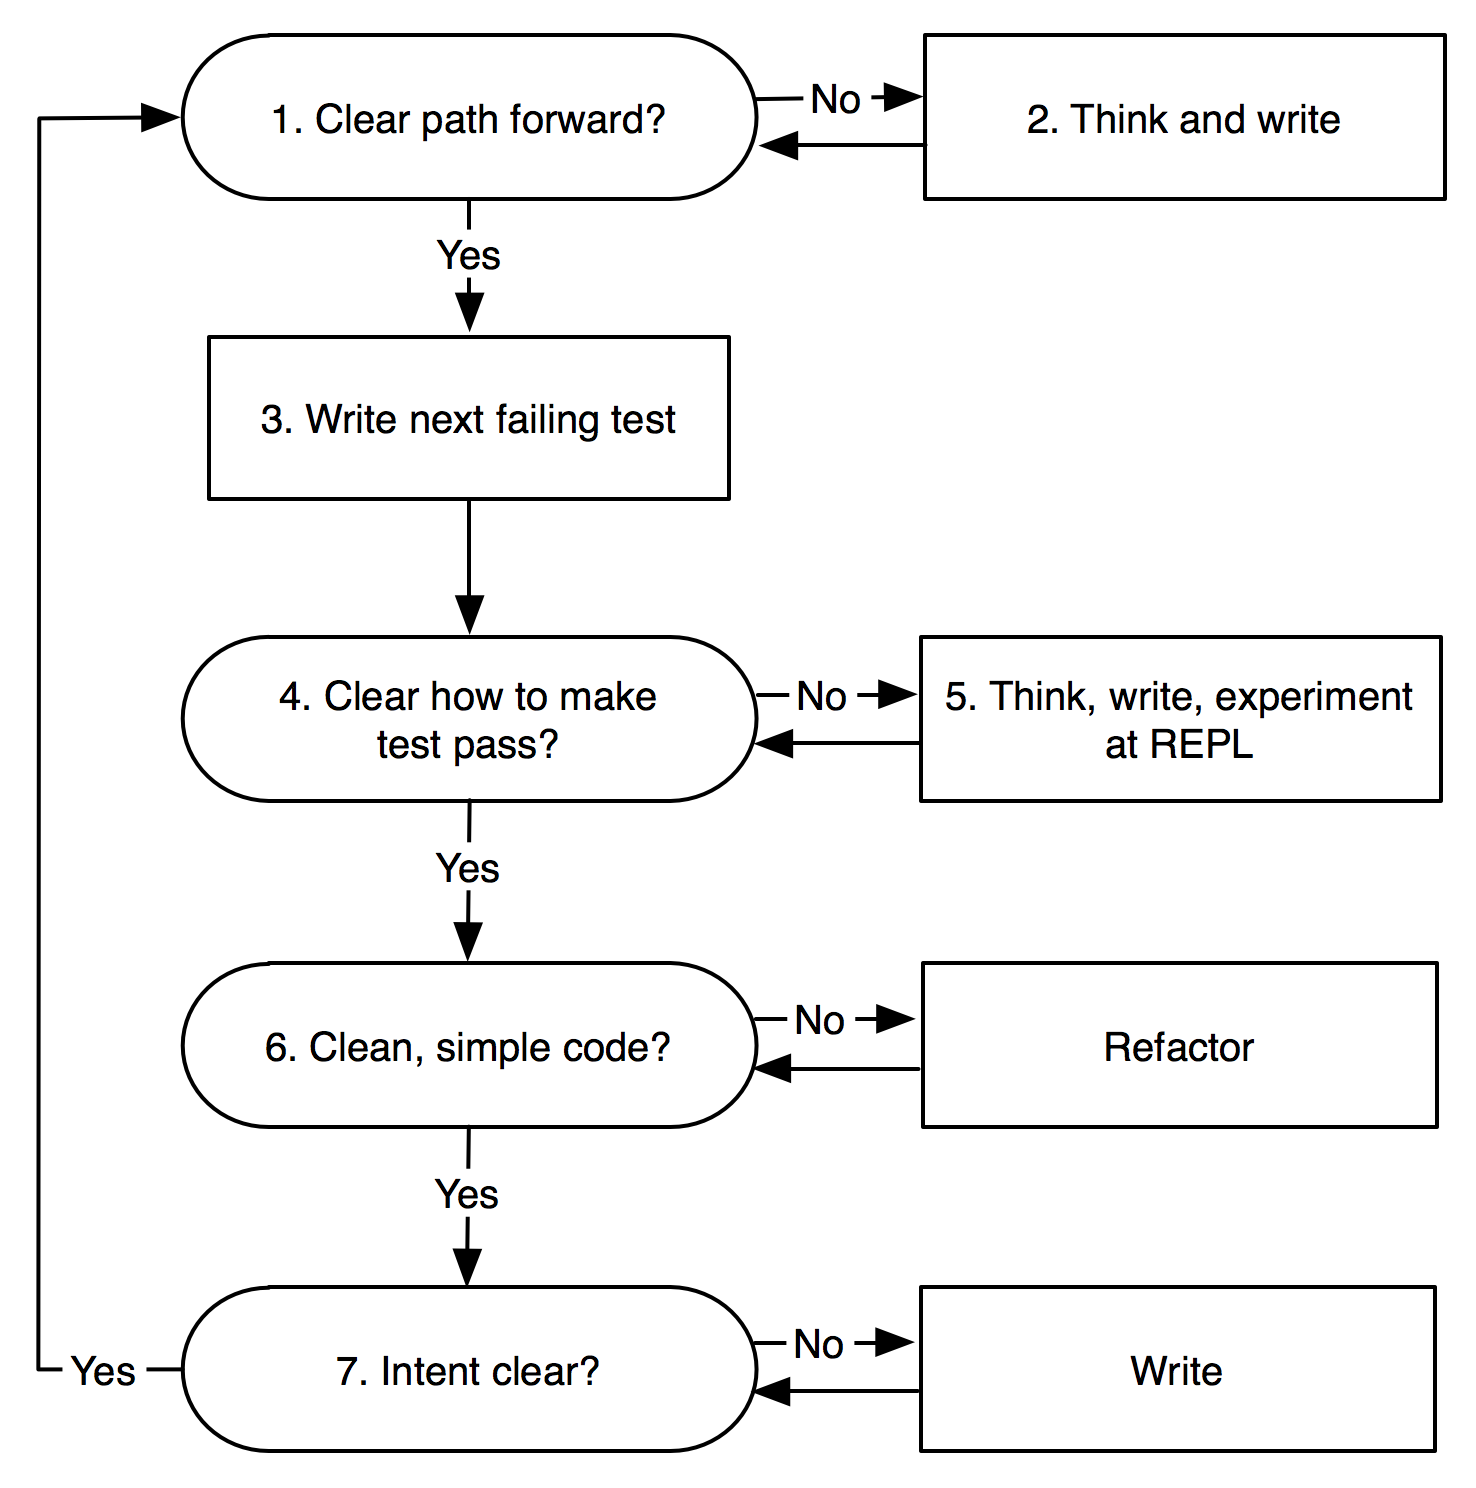
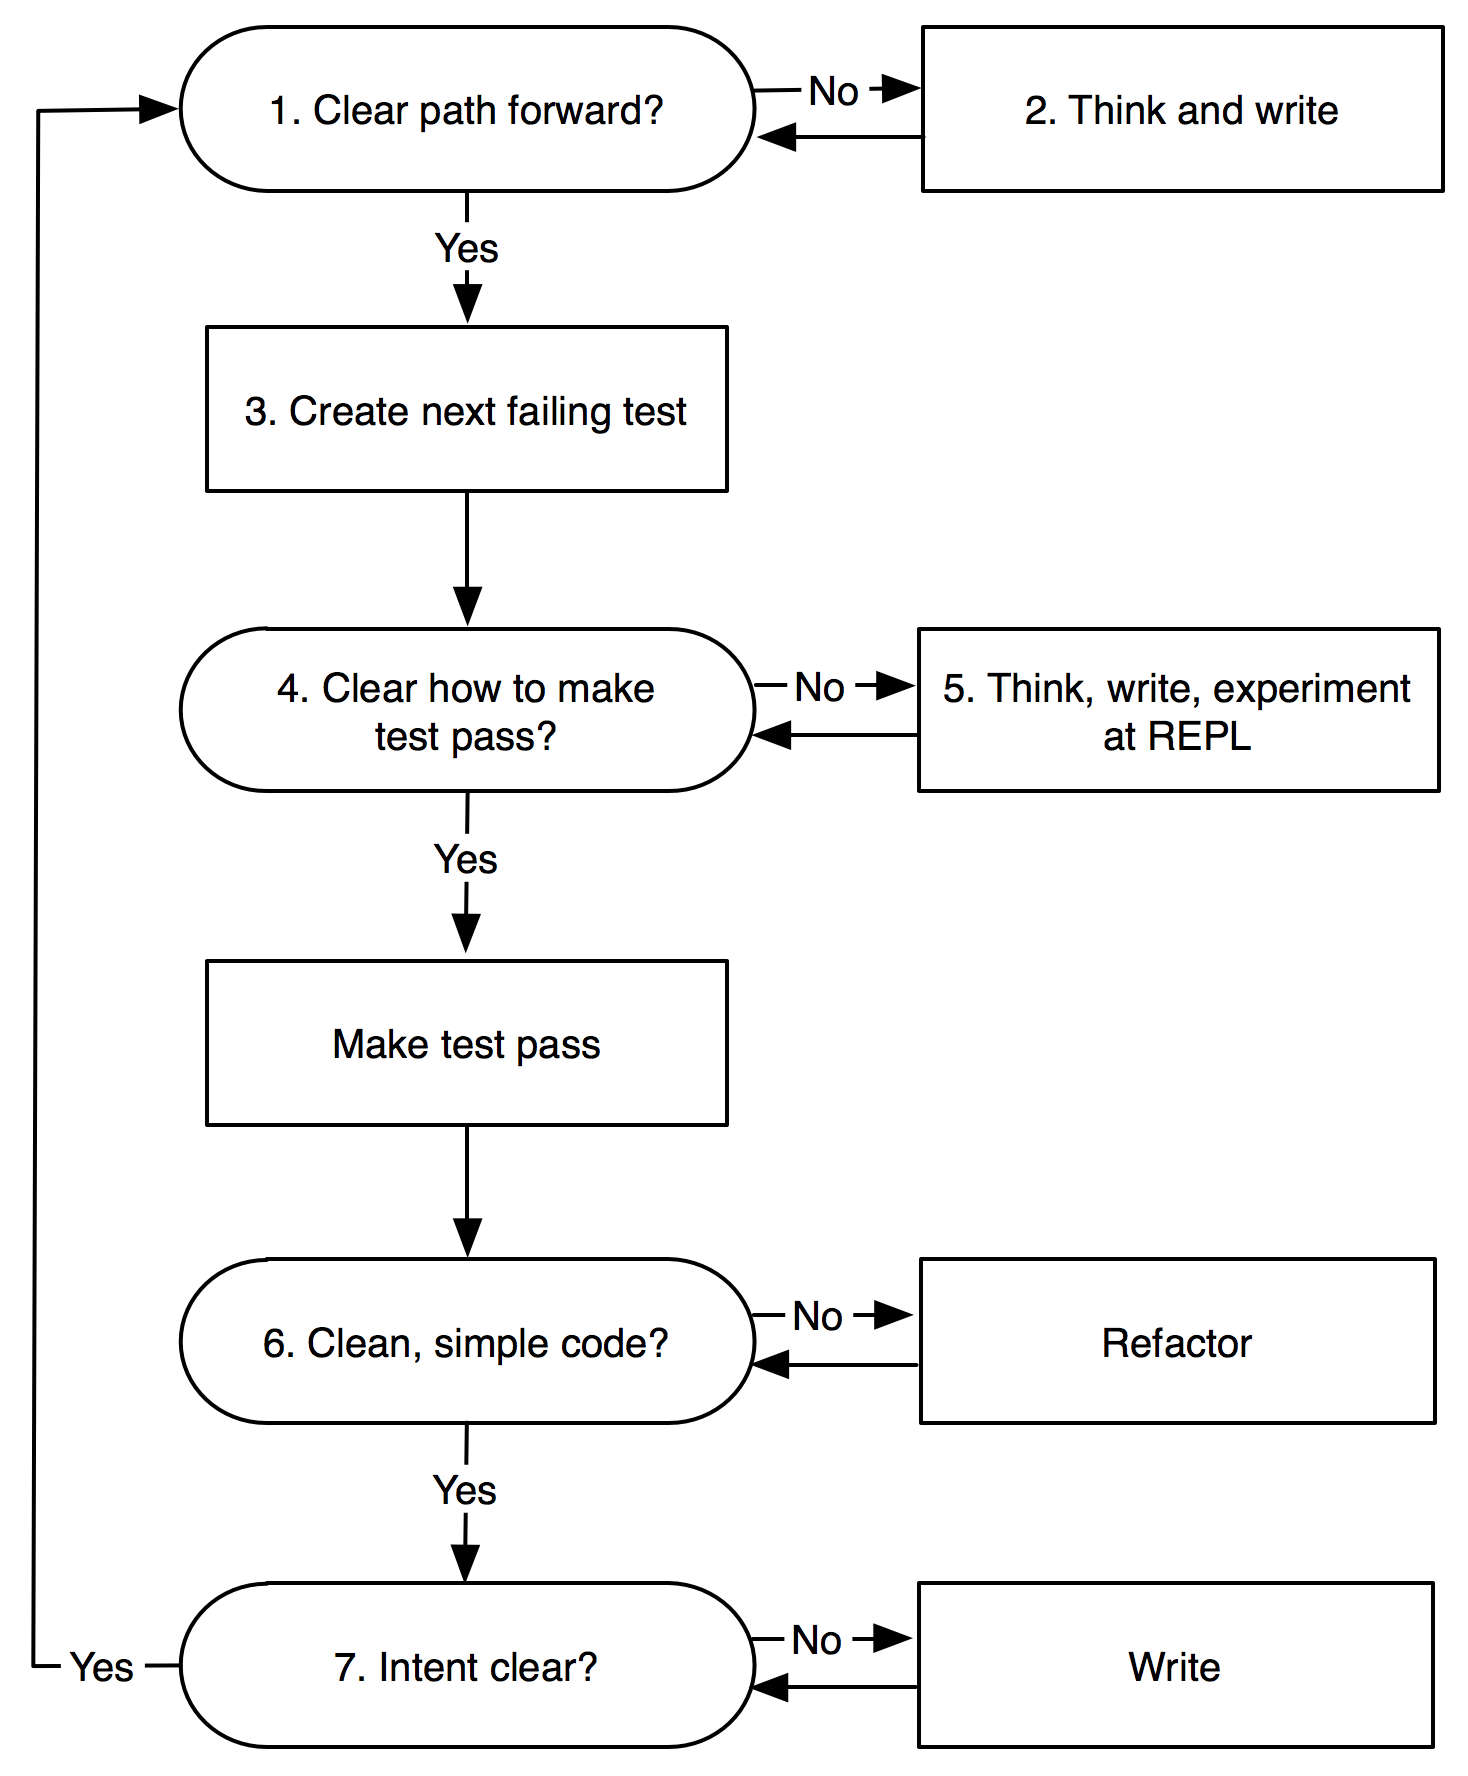
Updated latest draft of workflow post

diff --git a/_posts/2014-07-20-a-worfklow-tdd-rdd-and-ddd.md b/_posts/2014-07-20-a-worfklow-tdd-rdd-and-ddd.md
@@ -8,8 +8,9 @@ draft: true
 ---
 {% include JB/setup %}
 
-Having [discussed my Emacs setup](/clojure/2014/07/05/emacs-customization-for-clojure/) for Clojure, I now present my "ideal" workflow, with subsequent discussion.  But first, let me motivate things with a few questions:
+**This is the third post in a [series](/clojure/2014/07/03/an-advanced-clojure-workflow/) about my current Clojure workflow.**
 
+Having [discussed my Emacs setup](/clojure/2014/07/05/emacs-customization-for-clojure/) for Clojure, I now present my "ideal" workflow.  But first, some questions:
 
 <ol type="a">
 <li>How do you preserve the ability to make improvements without fear of breaking things?</li>
@@ -20,11 +21,11 @@ Having [discussed my Emacs setup](/clojure/2014/07/05/emacs-customization-for-cl
 </ol>
 
 
-The answer to (a) is, of course, by having good test coverage; and the simplest way I know to have good test coverage is by doing Test-Driven Development (TDD).  However, my experience with TDD is that it doesn't always help much with the other points on the list (though it helps a bit with (b), (c) and (e)).  In particular, [Rich Hickey points out](http://www.infoq.com/presentations/Simple-Made-Easy) that TDD is not a substitute for *thinking* about the problem at hand.
+The answer to (a) is, of course, by having good tests; and the best way I know of to have maintain good tests is by writing test code along with, and slightly ahead of, the production code (test-driven development, a.k.a. TDD).  However, my experience with TDD is that it doesn't always help much with the other points on the list (though it helps a bit with (b), (c) and (e)).  In particular, [Rich Hickey points out](http://www.infoq.com/presentations/Simple-Made-Easy) that TDD is not a substitute for *thinking* about the problem at hand.
 
 As an aid for thinking, I find writing to be invaluable, so a minimal sort of [literate programming](http://en.wikipedia.org/wiki/Literate_programming) has increasingly become a part of my workflow, at least for hard problems.
 
-#### Worfklow
+**The Worfklow**
 
 Now for the workflow proper.  Given the following tools:
 
@@ -49,10 +50,14 @@ Here are the above steps as a flow chart:
 
 The workflow presented above is a somewhat idealized version of what I actually manage to pull off during any given coding session.  It is essentially the <span style="color:red">red</span>-<span style="color:green">green</span>-<span style="color:blue">refactor</span> of traditional test-driven development, with the explicit addition of REPL experimentation ("REPL-driven development," or RDD) and continuous writing of documentation ("documentation-driven development," or DDD) as a way of steering the effort and clarifying the approach.
 
-A lot has been written about TDD and its advantages or drawbacks.  What I want to emphasize is how the addition of REPL experimentation and the emphasis on writing complement TDD, essentially covering all the bases (a)-(e), above.  While I've been combining unit tests and the REPL for some time, the emphasis on writing is new to me, and I am excited about it.
+A lot has been written about test-first development and its advantages or drawbacks.  At the moment, [the practice seems to be particularly controversial in the Rails community](http://david.heinemeierhansson.com/2014/tdd-is-dead-long-live-testing.html).  I don't want to go too deep into the pros and cons other than to say [once again](/testing/2012/03/31/ontinuous-testing-in-python-clojure-and-blub/) that the practice has saved my bacon so many times that I try to minimize the amount of code I write that doesn't begin life as a response to a failing test.
 
-While I don't always follow each of the above steps to the letter, the harder the problem, the more closely I will tend to follow this plan, with one further modification: I am willing to wipe the slate clean and start over if a new understanding shows the current path to be unworkable, or to be leading to unneeded complexity.
+ What I want to emphasize here is how writing and the use of the REPL complement TDD.  These three ingredients cover all the bases (a)-(e), above.  While I've been combining unit tests and the REPL for some time, the emphasis on writing is new to me, and I am excited about it.  Much more than coding by itself, I find that writing things down and building small narratives of code and prose together forces me to do the thinking I need in order to write the best code I can.
 
-The next few posts attack specifics about testing and writing, giving what I personally have found most effective (so far), and elaborating on helpful aspects of each.
+**Always beginning again**
+
+While I don't always follow each of the above steps to the letter, the harder the problem, the more closely I will tend to follow this plan, with one further modification: I am willing to wipe the slate clean and begin again if new understanding shows that the current path is unworkable, or leads to unneeded complexity.
+
+The next few posts attack specifics about testing and writing, presenting what I personally have found most effective (so far), and elaborating on helpful aspects of each.
 
 How does your preferred workflow differ from the above?

diff --git a/_posts/2014-07-05-emacs-customization-for-clojure.md b/_posts/2014-07-05-emacs-customization-for-clojure.md
@@ -100,4 +100,4 @@ To install Emacs packages, e.g. paredit, `M-x install-package<RET>paredit`.  Or,
 
 Conference talks and online videos are a great way to find Emacs tricks to steal.  For example, I've seen people run unit tests from inside Emacs and display failures inline with the code, which is a very cool trick, though not exactly what I want.  The best way to increase your Emacs-fu is to sit down with a grizzled Emacs guru and compare notes and techniques.  I wish I had more opportunities to do this.
 
-In the next post, we'll talk about test-driven development and how "RDD" (REPL-driven development) and TDD enhance and complement each other.
+In [the next post](/clojure/2014/07/20/a-worfklow-tdd-rdd-and-ddd/), we'll talk about test-driven development and how "RDD" (REPL-driven development) and TDD enhance and complement each other.

diff --git a/_posts/2014-07-03-an-advanced-clojure-workflow.md b/_posts/2014-07-03-an-advanced-clojure-workflow.md
@@ -22,3 +22,7 @@ My setup has evolved over time and I expect it will be different by the time mos
 These tools and techniques provide a sort of "sweet-spot" -- they help me be productive in the language, and I find them fun to use together.  Your mileage may vary -- I have seen people be productive with vastly different workflows and toolsets.
 
 Without further ceremony, let's go straight to the first post, about [customizing Emacs for Clojure](/clojure/2014/07/05/emacs-customization-for-clojure/).
+
+**Other posts in this series:**
+
+* [A Workflow  TDD, RDD and DDD](/clojure/2014/07/20/a-worfklow-tdd-rdd-and-ddd/)
